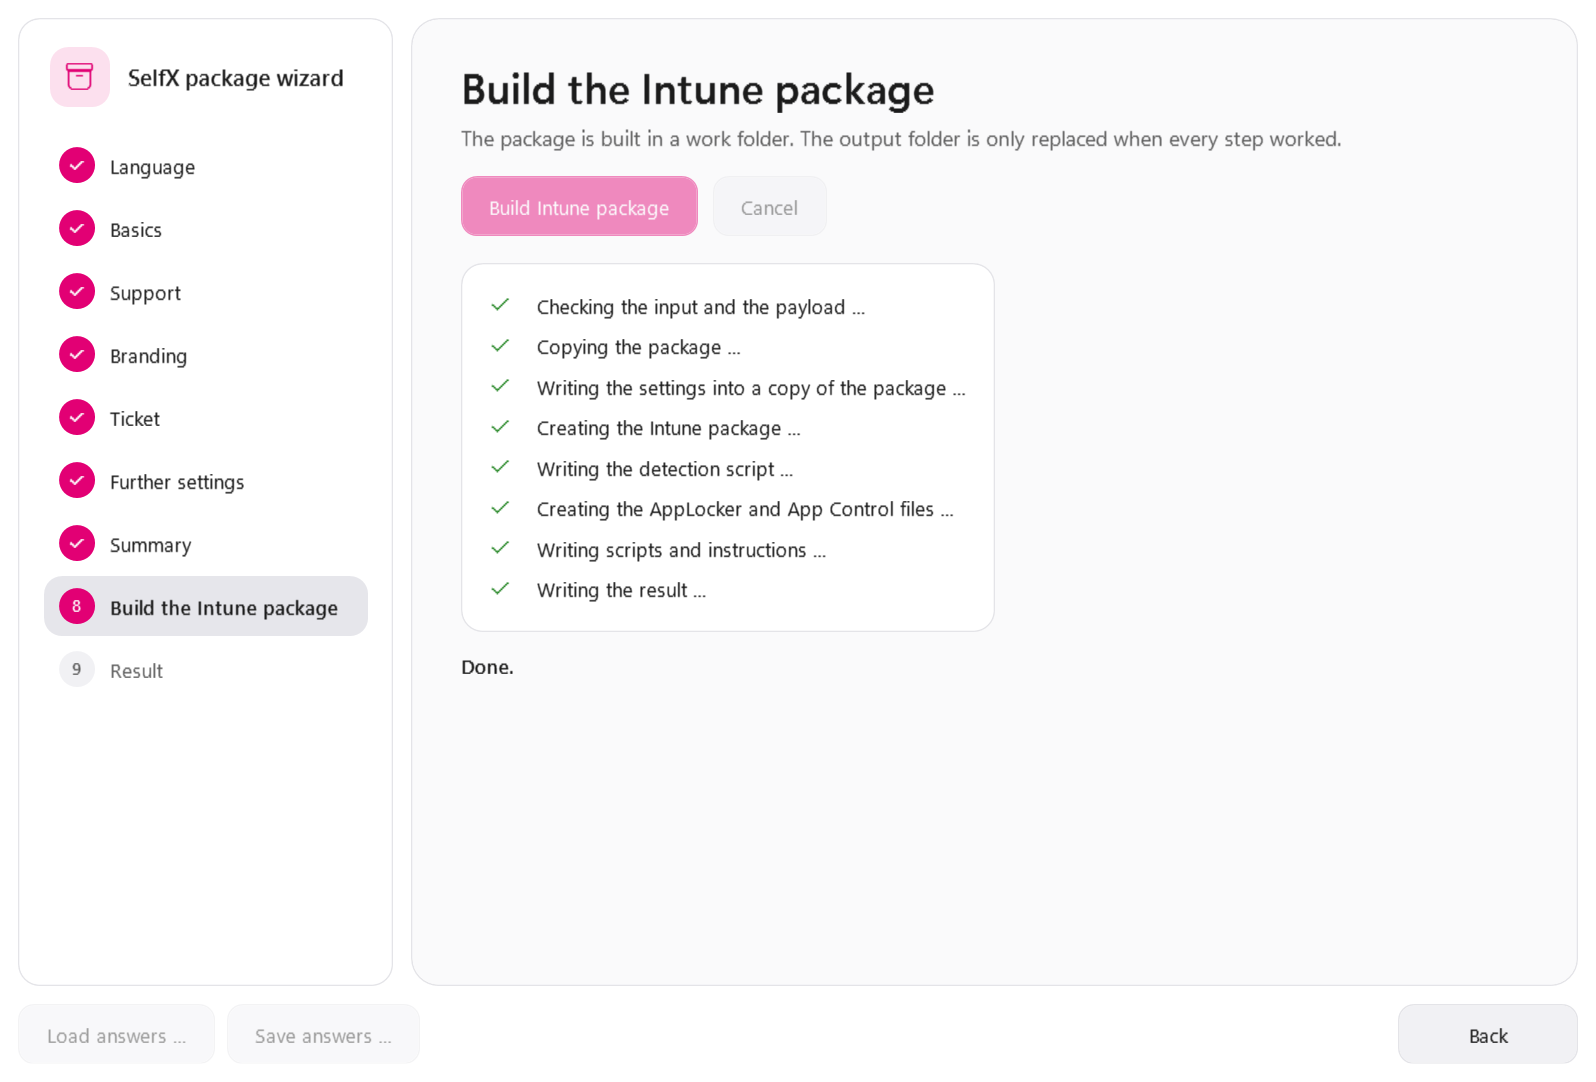
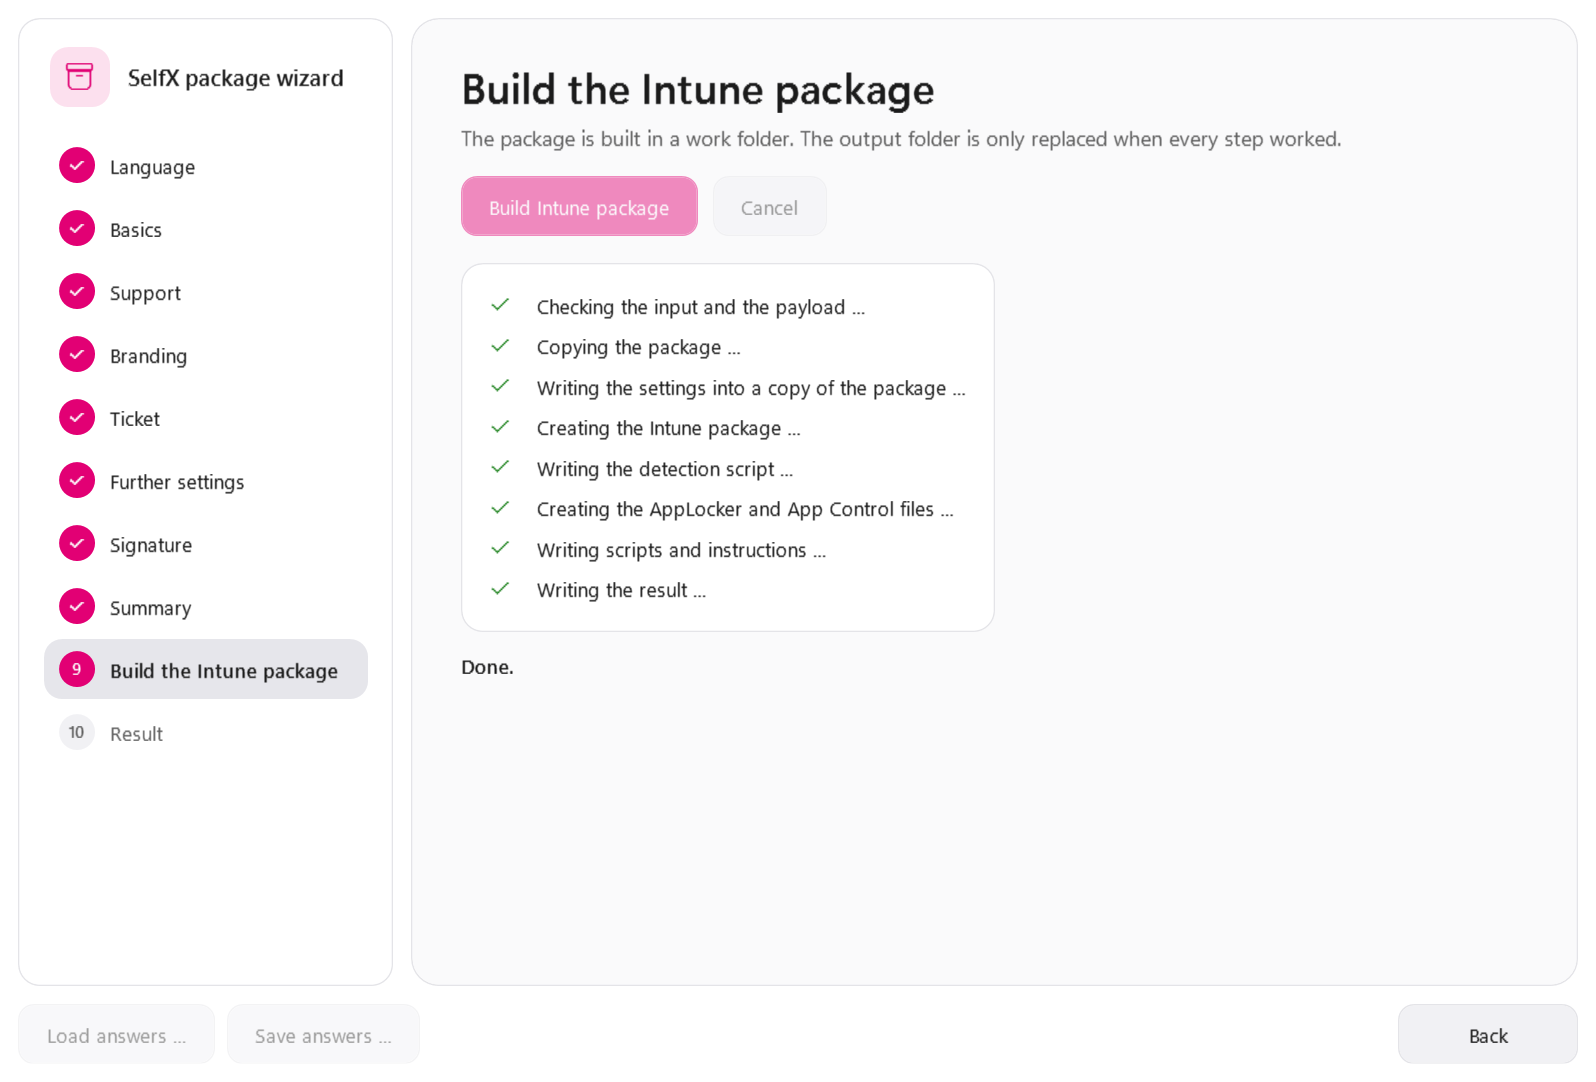
wip: screenshots, doc links

Changed region(s): [[0.0307, 0.488, 0.2456, 0.7015]]

diff --git a/docs/de/Assistent.md b/docs/de/Assistent.md
@@ -49,9 +49,11 @@ Nutzlast-Archiv (oder im Repository). Sie startet Windows PowerShell 5.1 mit `-N
   in `selfx-answers.json` geschrieben. Das Zertifikat wird nicht in einen Speicher importiert.
 - Noch nicht im Fenster: die Netzwerkziele des Verbindungstests.
 
+![Fenster des Paketassistenten: Seite Signatur mit PFX-Datei (Beispielzertifikat)](../images/selfx-wizard-signing-de.png)
+
 ![Fenster des Paketassistenten: Bau mit Fortschrittsliste](../images/selfx-wizard-build-de.png)
 
-![Fenster des Paketassistenten: Ergebnis mit der Anleitung für Intune](../images/selfx-wizard-result-de.png)
+![Fenster des Paketassistenten: Ergebnis mit den Schritten für Intune und Kopieren-Schaltflächen](../images/selfx-wizard-result-de.png)
 
 Die Konsolenfassung unten bleibt für die Automatisierung (Antwortdatei).
 
@@ -120,6 +122,8 @@ wird sofort abgelehnt. Die Werte werden als Text in die XML-Dateien geschrieben 
 `logo.<Typ>`. Die Antworten enthalten nie ein Kennwort oder einen Schlüssel: Ein Name, der keine Frage ist, wird abgelehnt.
 
 ## Paket signieren (Vertrauensmodus Signatur)
+
+Wie Sie ein geeignetes Zertifikat bekommen, wie die Geräte ihm vertrauen und wie Sie es wechseln: [Codesignatur-Zertifikat](Zertifikat.md).
 
 Ohne Zertifikat entsteht das Paket im Vertrauensmodus **Hash** (keine Signatur; `SelfX.Code.json` ist die Datei des Release). Mit
 `-CertificateThumbprint` oder `-PfxPath` baut der Assistent ein **signiertes** Paket in der Reihenfolge, die die Dateilisten verlangen: Er

diff --git a/docs/Guided-Setup.md b/docs/Guided-Setup.md
@@ -47,9 +47,11 @@ archive (or in the repository). It starts Windows PowerShell 5.1 with `-NoProfil
   `selfx-answers.json`. The certificate is not imported into a store.
 - Not yet in the window: the network targets of the connection test.
 
+![Package wizard window: page Signature with a PFX file (sample certificate)](images/selfx-wizard-signing-en.png)
+
 ![Package wizard window: build with the progress list](images/selfx-wizard-build-en.png)
 
-![Package wizard window: result with the instructions for Intune](images/selfx-wizard-result-en.png)
+![Package wizard window: result with the steps for Intune and copy buttons](images/selfx-wizard-result-en.png)
 
 The console version below stays for automation (answer file).
 
@@ -113,6 +115,8 @@ wizard checks the **first bytes of the file**, not only the extension, and store
 password or a key: a name that is no question is refused.
 
 ## Sign the package (trust mode Signature)
+
+How to get a suitable certificate, how the devices trust it and how to change it: [Code signing certificate](Certificate-Guide.md).
 
 Without a certificate the package is built in the trust mode **Hash** (no signature; `SelfX.Code.json` is the one of the release). With
 `-CertificateThumbprint` or `-PfxPath` the wizard builds a **signed** package in the order that the file lists need: it signs every
